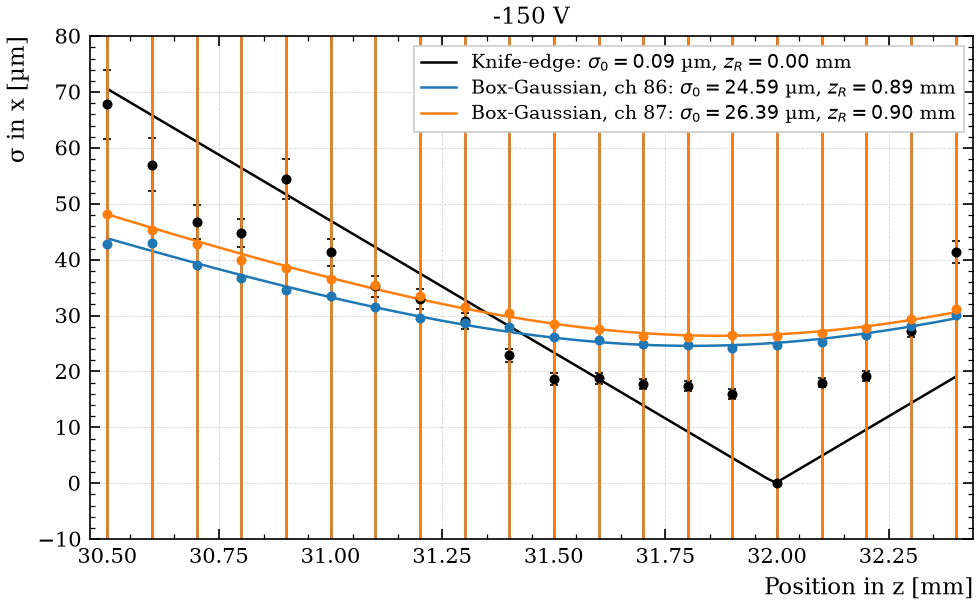
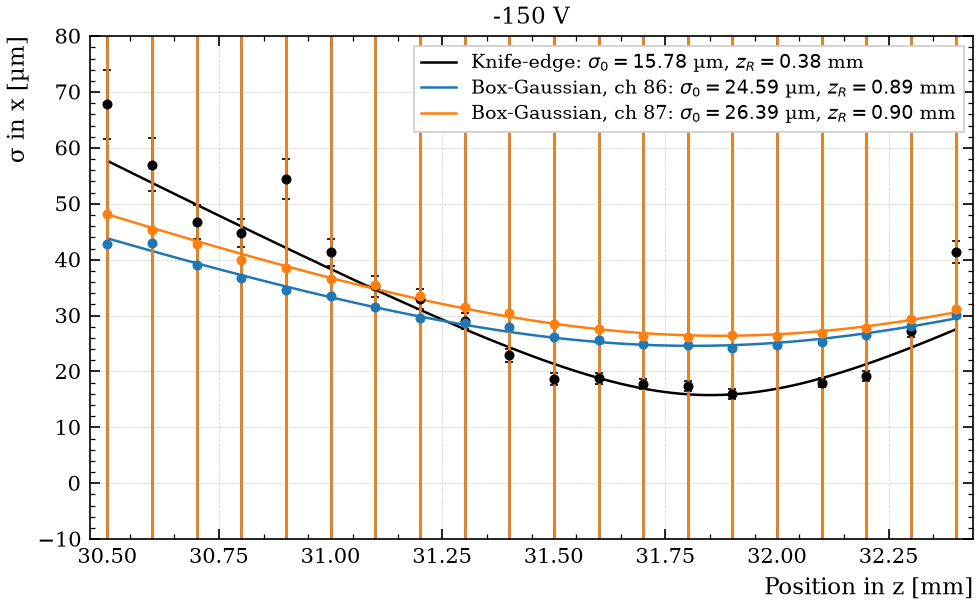
ana

diff --git a/focus.py b/focus.py
@@ -1,0 +1,122 @@
+"""
+Example analysis: mean cleaned ADC against channel, over all runs.
+
+    python3 adc_vs_channel_ana.py data/*.csv -ped pedestals.csv \
+        -plots plots/ -conf config_example.toml -cache cache/run.parquet
+"""
+
+import matplotlib.pyplot as plt
+import matplotlib.ticker as tck
+import numpy as np
+import warnings
+from scipy.optimize import OptimizeWarning
+
+from base_analysis import BaseAnalysis, isdir, ADC_CLEAN, INTEGRALS
+from fits import edge, box_gaussian, curve_fit_xerr, fit_beam, beam_width
+
+
+class Focus(BaseAnalysis):
+    DEFAULTS = {**BaseAnalysis.DEFAULTS, "active": [86, 87]}
+    # plot() writes ch_to_x to the config, so a change of it must not count as a new setting here
+    PLOT_KEYS = BaseAnalysis.PLOT_KEYS + ("ch_to_x", "active",)
+
+
+    # Contains the data per position basically
+    def plot(self) -> None:
+        if self.cfg.style:
+            plt.style.use(self.cfg.style)
+        # Define subdirs
+        fitdir = isdir(self.plotdir / "fits")
+        adcdir = isdir(self.plotdir / "adc")
+
+        """" --------------- ADC PLOTS ---------------"""
+        d = self.get(ADC_CLEAN)
+        active = [ch for ch in range(self.cfg.chmin, self.cfg.chmax+1)]
+        ch_to_x = self.cfg.ch_to_x
+        # Average over the runs for each channel
+        d = d.astype({"x": float, "channel": float, "value": float, "error": float, "z": float, "voltage": float})
+        d = d[d["channel"].isin(active)]
+        voltage = d["voltage"].iloc[0]
+        chs = d.groupby("channel")
+        cmap = plt.get_cmap("turbo", len(d["z"].unique()))
+        sigmas = {ch: {} for ch in active}
+        for ch_id, ch_df in chs:
+            fig, ax = plt.subplots(1,1)
+            zs = ch_df.groupby("z")
+            for ci, (z, z_df) in enumerate(zs):
+                rows = z_df.sort_values("x").dropna(subset=["value", "error"])
+                x = rows["x"].to_numpy()
+                adc = rows["value"].to_numpy()
+                err = rows["error"].to_numpy()
+
+                ax.errorbar(x, adc, yerr=err, xerr=self.cfg.xerr, fmt="o", ms=3, color=cmap(ci), label=f"z = {z:.2f} mm")
+                abs_adc = np.abs(adc)
+                # Fit signal and get the stdev
+                argmax = np.argmax(abs_adc)   # SIGNAL IS ABS SO MAX
+                peak = abs_adc[argmax]
+                base = 0   # Assume 0 baseline
+                above = x[abs_adc > base + peak / 2]
+                w = above.max() - above.min() if above.size > 1 else self.cfg.pitch / 2
+                p0 = [peak - base, x[argmax], w, max(w / 10, np.diff(x).min()), base]
+                lo = [0, x.min(), 0, 1e-4, -np.inf]
+                hi = [np.inf, x.max(), np.ptp(x), np.ptp(x), np.inf]
+                try:
+                    with warnings.catch_warnings():
+                        warnings.simplefilter("error", RuntimeWarning)
+                        warnings.simplefilter("error", OptimizeWarning)
+                        popt, pcov = curve_fit_xerr(
+                            box_gaussian, x, abs_adc, np.abs(err), self.cfg.xerr,
+                            p0=p0, bounds=(lo, hi), maxfev=10000)
+                        xf = np.linspace(x.min(), x.max(), 500)
+                        ax.plot(xf, np.sign(adc.sum()) * box_gaussian(xf, *popt), "--", color=cmap(ci))
+                        if z not in sigmas:
+                            sigmas[ch_id].setdefault(z, {"val": [], "err": []})
+                        sigmas[ch_id][z]["val"].append(abs(popt[3]))
+                        sigmas[ch_id][z]["err"].append(np.sqrt(pcov[3,3]))
+                except (RuntimeError, RuntimeWarning, OptimizeWarning, ValueError) as err:
+                    print(f"Fit failed with {err}")
+                    continue
+            ax.legend(fontsize="x-small", ncols=2, framealpha=0.6)
+            ax.xaxis.set_minor_locator(tck.AutoMinorLocator())
+            ax.set_title(f"Ch {ch_id}, {voltage:g} V")
+            ax.set_xlabel("Position in x [mm]")
+            ax.set_ylabel("Mean ADC")
+            fig.savefig(adcdir / f"adc_ch_{ch_id}.png", dpi=150)
+            plt.close(fig)
+
+        ch_colors = {ch: plt.get_cmap("tab10")(i) for i, ch in enumerate(active)}
+        for ch in active:
+            fig_zs, ax_zs = plt.subplots(1, 1)
+            color = ch_colors[ch]
+            ch_zs = sorted(sigmas[ch])
+            sig = np.asarray([sigmas[ch][z]["val"] for z in ch_zs]).ravel()
+            sig_err = np.asarray([sigmas[ch][z]["err"] for z in ch_zs]).ravel()
+            ax_zs.errorbar(ch_zs, 1000 * sig, yerr=1000 * sig_err, xerr=self.cfg.zerr, fmt="o", color=color)
+            try:
+                with warnings.catch_warnings():
+                    warnings.simplefilter("error", RuntimeWarning)
+                    warnings.simplefilter("error", OptimizeWarning)
+                    popt_b, cov_b = fit_beam(ch_zs, sig, sig_err, self.cfg.zerr)
+                    w0, z0, zr = popt_b
+                    e_w0, e_z0, e_zr = np.sqrt(np.diag(cov_b))
+                    xz = np.linspace(min(ch_zs), max(ch_zs), 100)
+                    ax_zs.plot(xz, 1000 * beam_width(xz, *popt_b), color=color,
+                            label=rf"Beam fit: $\sigma_0 = {1000 * w0:.2f} \pm {1000 * e_w0:.2f}$ µm, $z_0 = {z0:.3f}$ mm, $z_R = {zr:.2f} \pm {e_zr:.2f}$ mm")
+            except (RuntimeError, RuntimeWarning, OptimizeWarning, ValueError) as err:
+                print(f"Fit of sigmas failed with {err}")
+
+            ax_zs.legend(fontsize="small", framealpha=1)
+            ax_zs.set_title(f"Ch {ch}, {voltage:g} V")
+            ax_zs.set_xlabel("Position in z [mm]")
+            ax_zs.set_ylabel("σ in x [µm]")
+            ax_zs.set_ylim(-10, 80)
+            fig_zs.savefig(self.plotdir / f"focus_scan_ch_{ch}.png", dpi=150)
+            plt.close(fig_zs)
+
+
+
+        
+
+
+if __name__ == "__main__":
+    Focus().run()

diff --git a/x-scan.py b/x-scan.py
@@ -14,7 +14,7 @@ from scipy.optimize import OptimizeWarning
 
 from base_analysis import BaseAnalysis, isdir, ADC_CLEAN, CHANNEL_HITS
 from fits import box_gaussian, curve_fit_xerr
-from plot_helpers import clean_adc, plot_adc, mark_xerr
+from plot_helpers import clean_adc, plot_adc
 
 
 class XScan(BaseAnalysis):
@@ -24,6 +24,8 @@ class XScan(BaseAnalysis):
 
     # Contains the data per position basically
     def plot(self) -> None:
+        if self.cfg.style:
+            plt.style.use(self.cfg.style)
         # Define subdirs
         fitdir = isdir(self.plotdir / "fits")
         hitsdir = isdir(self.plotdir / "hits")
@@ -34,10 +36,13 @@ class XScan(BaseAnalysis):
 
         # HITS PER X POSITION
         d = self.get(CHANNEL_HITS)
+        zs, volts = d["z"].unique(), d["voltage"].unique()
         # Rows are x, columns are channels, mean over files at the same x (e.g. several z)
         hits = d.astype({"x": float, "channel": float, "value": float}).pivot_table(
             index="x", columns="channel", values="value", aggfunc="mean")
         active = hits.columns[hits.sum() > 0.05 * hits.sum().max()]   # channels with real hits
+        # z and voltage of the scan for the titles
+        title = f"z = {', '.join(f'{v:.2f}' for v in sorted(zs))} mm, V = {', '.join(f'{v:g}' for v in sorted(volts))} V"
 
         # Heatmap channels vs x pos
         fig, ax = plt.subplots(1, 1)
@@ -51,7 +56,6 @@ class XScan(BaseAnalysis):
         ax.tick_params(which="both", width=1, direction="out")   
         ax.set_title(f"{self.cfg.hit_threshold} ADC hit threshold")
         ax.set_xlim(self.cfg.xmin, self.cfg.xmax)
-        mark_xerr(ax, self.cfg.xerr)
         fig.savefig(hitsdir / "hits_map.png", dpi=150)
         plt.close(fig)
 
@@ -87,12 +91,27 @@ class XScan(BaseAnalysis):
             # Check: is the fit good?
             # Consider adding a more specific check here
             if (abs(popt[0] - y.max()) < y.max()/10):
-                print(f"Channel position extracted from ch {ch}")
                 ch_to_x[ch] = popt[1]
-                # Now define the other channels with pitch
-                for ch2 in active:
-                    ch_to_x[ch2] = popt[1] + self.cfg.pitch * (ch2 - ch)
-                break
+
+        fig_ch, ax_ch = plt.subplots(1,1)
+        channels, x_mean = zip(*ch_to_x.items())
+        ax_ch.errorbar(channels, x_mean, yerr=self.cfg.xerr, fmt='o')
+        try:
+            xerr = np.broadcast_to(np.asarray(self.cfg.xerr, dtype=float), 
+                                   np.shape(x_mean))
+            popt, pcov = np.polyfit(channels, x_mean, 1, 
+                                    w=1/xerr, cov=True)
+            xr = np.linspace(min(channels), max(channels), 1000)
+            ax_ch.plot(xr, np.polyval(popt, xr))
+            for ch in ch_to_x.keys():
+                ch_to_x[ch] = np.polyval(popt, ch)
+        except Exception as err:
+            print(f"fit failed with {err}!")
+
+        ax_ch.set_xlabel("Channel")
+        ax_ch.set_ylabel(rf"x$_{{mean}}$ [mm]")
+        ax_ch.set_title(title)
+        fig_ch.savefig(fitdir / "ch_to_x.png", dpi=150)
 
         # Save the mapping in the config, other scans can use it as cfg.ch_to_x
         if self.cfg.update_config:
@@ -128,10 +147,6 @@ class XScan(BaseAnalysis):
         err_x = d.pivot_table(index="x", columns="channel", values="error", aggfunc="mean")
         err_x = err_x.reindex(index=adc_x.index, columns=adc_x.columns)
 
-        # z and voltage of the scan for the titles
-        zs, volts = d["z"].unique(), d["voltage"].unique()
-        title = f"z = {', '.join(f'{v:.2f}' for v in sorted(zs))} mm, V = {', '.join(f'{v:g}' for v in sorted(volts))} V"
-
         # ADC vs pos and channel
         plot_adc(adc_x, err_x, active, visible, title, adcdir / "adc_vs_channel.png",
                  self.cfg.xmin, self.cfg.xmax, xerr=self.cfg.xerr)
@@ -162,7 +177,6 @@ class XScan(BaseAnalysis):
         ax.tick_params(which="both", width=1, direction="out")   
         ax.set_title(title)
         ax.set_xlim(self.cfg.xmin, self.cfg.xmax)
-        mark_xerr(ax, self.cfg.xerr)
         fig.savefig(adcdir / "adc_map.png", dpi=150)
         plt.close(fig)
 
@@ -177,21 +191,21 @@ class XScan(BaseAnalysis):
             q = charge.reindex(columns=cols)
             e = charge_err.reindex(columns=cols)
 
-            S = q.sum(axis=1, min_count=3)   # NaN if any of the three is missing
-            f = q[ch] / S
-            # Only where the beam is on this strip, elsewhere it is noise over noise
-            near = (f.index.to_series() - ch_to_x[ch]).abs() < self.cfg.pitch
+            s = q.sum(axis=1, min_count=3)
+            f = q[ch] / s
+            near = (f.index.to_series() - ch_to_x[ch]).abs() < 1.5*self.cfg.pitch
             f = f.where(near.to_numpy())
 
             # Error on f = Q_c / (Q_l + Q_c + Q_r), uncorrelated per-channel errors
             s_c2 = e[ch] ** 2
             s_side2 = e[ch - 1] ** 2 + e[ch + 1] ** 2
-            var = ((1 - f) ** 2 * s_c2 + f ** 2 * s_side2) / S ** 2
+            var = ((1 - f) ** 2 * s_c2 + f ** 2 * s_side2) / s ** 2
 
             frac[ch] = f
             err_frac[ch] = np.sqrt(var)
         frac = pd.DataFrame(frac)
         err_frac = pd.DataFrame(err_frac)
+        title = title + rf", $\eta$ neighbours = $\pm${self.cfg.eta_neighbours}"
         plot_adc(100 * frac, 100 * err_frac, active, visible, title, adcdir / "eta-function.png",
                       self.cfg.xmin, self.cfg.xmax, ylabel="Charge fraction [%]", xerr=self.cfg.xerr)
 

diff --git a/fits.py b/fits.py
@@ -9,6 +9,8 @@ def box_gaussian(x, A, x0, w, sigma, c):
 def edge(x, A, x0, sigma, c):
     return 0.5 * A * (1 + erf((x - x0) / (np.sqrt(2) * sigma))) + c
 
+def linear(x, k, m):
+    return k*x + m
 
 def curve_fit_xerr(f, x, y, yerr, xerr, n_iter=2, **kwargs):
     """curve_fit with errors on both axes (effective variance method).
@@ -44,7 +46,6 @@ def fit_beam(z, sig, err, zerr, k=3, maxfev=10000):
     if z.size < 6:
         raise ValueError(f"too few points for a beam fit ({z.size})")
     span = max(np.ptp(z), 1e-9)
-    # A Rayleigh length shorter than the z step can not be resolved by the scan
     step = np.median(np.diff(np.sort(z)))
     zr_min = max(step, 1e-3 * span)
     i = np.argmin(sig)
@@ -60,26 +61,8 @@ def fit_beam(z, sig, err, zerr, k=3, maxfev=10000):
     popt, pcov = curve_fit_xerr(beam_width, zk, sig[keep], err[keep], zerr, p0=popt, bounds=bounds, maxfev=maxfev)
     w0, z0, zr = popt
 
-    # Checks, a failed one raises ValueError with the reason
     if not np.all(np.isfinite(pcov)):
         raise ValueError(f"covariance is not finite, params {popt}")
-    if zr < 1.05 * zr_min or zr > 0.95 * bounds[1][2]:
-        raise ValueError(f"z_R = {zr:.4g} is at its bound ({zr_min:.3g} .. {bounds[1][2]:.3g}), params {popt}")
-    if w0 < 1e-6:
-        raise ValueError(f"sigma_0 = {w0:.3g} is at zero")
-    if z0 <= zk.min() + 0.01 * span or z0 >= zk.max() - 0.01 * span:
-        raise ValueError(f"focus z_0 = {z0:.4g} is at the edge of the scan, not a minimum in the data")
-    if (zk < z0).sum() < 2 or (zk > z0).sum() < 2:
-        raise ValueError(f"fewer than 2 points on one side of the focus z_0 = {z0:.4g}")
-
-    # The scatter is often larger than the errors. Scale the covariance to chi2/ndf = 1 then.
-    chi2 = np.sum(((sig[keep] - beam_width(zk, *popt)) / err[keep]) ** 2) / (zk.size - 3)
-    if chi2 > 1:
-        pcov = pcov * chi2
-    e_w0, _, e_zr = np.sqrt(np.diag(pcov))
-    if e_zr > zr or e_w0 > w0:
-        raise ValueError(f"errors larger than the values: z_R = {zr:.3g} +- {e_zr:.3g}, "
-                         f"sigma_0 = {w0:.3g} +- {e_w0:.3g}, chi2/ndf = {chi2:.1f}")
     return popt, pcov
 
 

diff --git a/plot_helpers.py b/plot_helpers.py
@@ -13,10 +13,11 @@ def col_vs_channel(df: pd.DataFrame, path: pathlib.Path, title: str = "",
                       col: str = "adc_clean", col_label: str = "ADC") -> None:
     """Every entry of `column` against channel, with the per channel mean on top"""
     fig, ax = plt.subplots(1, 1)
+    title_suff = f", {df["voltage"].iloc[0]} V, x = {df["x"].iloc[0]:.3f} mm, z = {df["z"].iloc[0]:.3f} mm"
     ax.plot(df["channel"], df[col], "o", ms=2, alpha=0.3)
     mean = df.groupby("channel")[col].mean()
     ax.plot(mean.index, mean.values, "-", color="k", lw=1)
-    ax.set_title(title)
+    ax.set_title(title + title_suff)
     ax.set_xlabel("Channel")
     ax.set_ylabel("ADC")
     fig.savefig(path, dpi=150)
@@ -51,15 +52,6 @@ def clean_adc(adc_x: pd.DataFrame, err_x: pd.DataFrame, active: pd.DataFrame):
     err_clean = err_clean.loc[ok]
 
     return adc_clean, err_clean
-
-def mark_xerr(ax, xerr) -> None:
-    """Heatmaps have no error bars, so show the size of the x error as a small bar in the corner"""
-    x0, x1 = ax.get_xlim()
-    blend = matplotlib.transforms.blended_transform_factory(ax.transData, ax.transAxes)
-    x = x0 + 0.08 * (x1 - x0)
-    ax.errorbar([x], [0.05], xerr=[xerr], fmt="none", ecolor="w", capsize=3, transform=blend)
-    ax.text(x + 0.02 * (x1 - x0), 0.05, rf"$\sigma_x$ = {1000 * xerr:.2f} µm", color="w",
-            fontsize="x-small", va="center", transform=blend)
 
 
 def plot_adc(adc_x, err_x, active, visible, title, path, xmin, xmax, ylabel="ADC", xerr=None) -> None:

diff --git a/knife-edge.py b/knife-edge.py
@@ -22,6 +22,8 @@ class KnifeEdge(BaseAnalysis):
 
     # Contains the data per position basically
     def plot(self) -> None:
+        if self.cfg.style:
+            plt.style.use(self.cfg.style)
         # Define subdirs
         fitdir = isdir(self.plotdir / "fits")
         adcdir = isdir(self.plotdir / "adc")
@@ -34,6 +36,7 @@ class KnifeEdge(BaseAnalysis):
 
         d = self.get(INTEGRALS)
         d = d.astype({"x": float, "z": float, "value": float, "error": float,"voltage": float})
+        d = d[d["z"] != 32.0]
         adc_x = d.pivot_table(index="x", columns="z", values="value", aggfunc="mean")
         err_x = d.pivot_table(index="x", columns="z", values="error", aggfunc="mean")
         for z in adc_x.columns:

diff --git a/bias_scan.py b/bias_scan.py
@@ -24,6 +24,8 @@ class BiasScan(BaseAnalysis):
     PLOT_KEYS = BaseAnalysis.PLOT_KEYS + ("ch_to_x", "channels", "ch")
 
     def plot(self) -> None:
+        if self.cfg.style:
+            plt.style.use(self.cfg.style)
         biasdir = isdir(self.plotdir / "bias")
         channels = sorted(set(self.cfg.channels))
 

diff --git a/tct.py b/tct.py
@@ -21,6 +21,7 @@ HERE = pathlib.Path(__file__).parent
 # name on the command line: (file, class)
 ANALYSES = {
     "x-scan": ("x-scan.py", "XScan"),
+    "focus": ("focus.py", "Focus"),
     "knife-edge": ("knife-edge.py", "KnifeEdge"),
     "bias-scan": ("bias_scan.py", "BiasScan"),
 }

diff --git a/clean_df.py b/clean_df.py
@@ -5,8 +5,6 @@ import matplotlib.pyplot as plt
 import pathlib
 from tqdm import tqdm
 
-plt.style.use("/home/teleuser/ELAD/tct/elad-tct-analysis/paper-style.mplstyle")
-
 BINS = 100
 
 def gaussian(x, a, mean, stdev):
